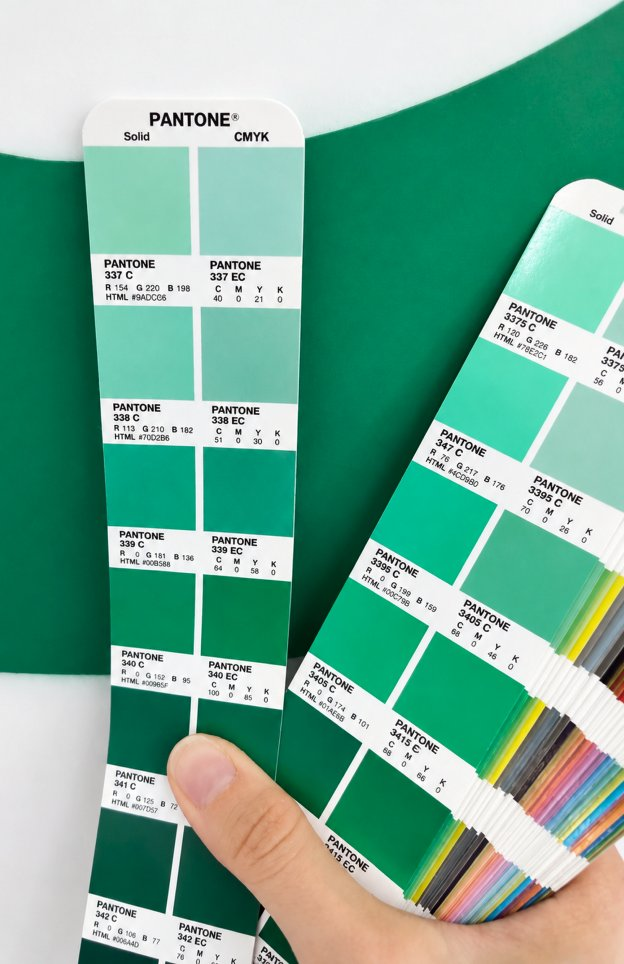
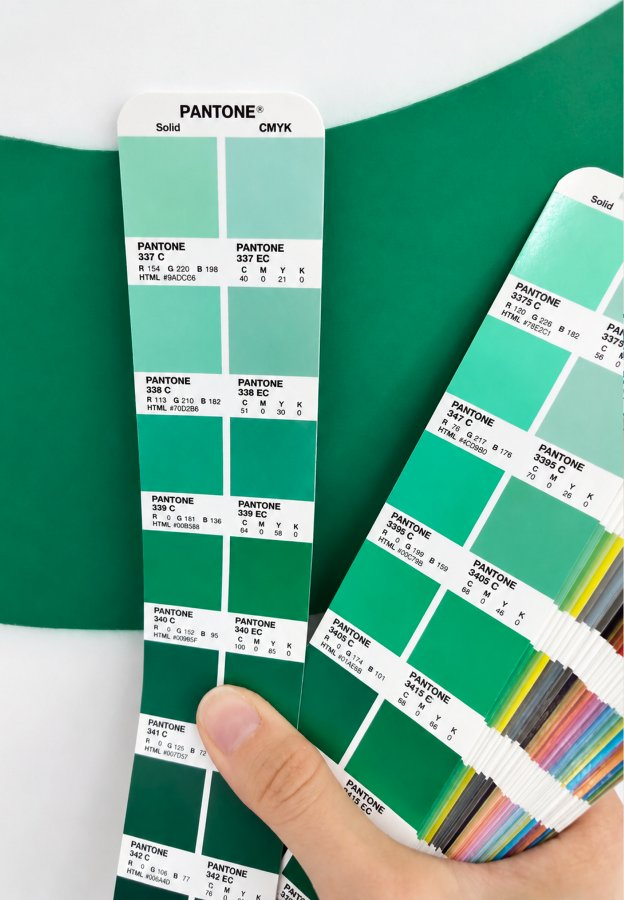
Заголовок программы по краю колонки, отступы и бирка по макету
«Программа» сдвинута на 5 влево — так её «П» встаёт на левый край
колонки, вровень с разделителем и «Спринтом I». Внутри программы
поджаты отступы: между группами 20 вместо 24, внутри группы 4 вместо 6.
Бирка «Бесплатно» переехала в конец заголовка.

Фотографии перевыгружены под новые высоты (450, 589, 230). Программа
похудела до 1680, всё ниже уехало вверх на 84,5: полотно 6872,
подвал 6928, страница 6979.

diff --git a/site/style.css b/site/style.css
@@ -80,7 +80,7 @@ html, body {
   position: relative;
   width: 1050px;
   margin: 0 auto;
-  min-height: 7063.5px;
+  min-height: 6979px;
   padding-top: 24px;
   zoom: var(--zoom, 1.1429);
 }
@@ -99,7 +99,7 @@ img {
 .sheet {
   position: relative;
   width: 1050px;
-  height: 6956.5px;
+  height: 6872px;
   margin: 0;
   background: #fff;
   border-radius: 4px;
@@ -402,12 +402,15 @@ img {
 .intro-rest p + p { margin-top: 8px; }
 
 /* ===== Программа ===== */
-.program { top: 1088px; left: 32px; width: 986px; height: 1764.5px; }
-.program .h2 { margin-bottom: 40px; }
+.program { top: 1088px; left: 32px; width: 986px; height: 1680px; }
+/* Заголовок сдвинут на 5 влево: так автор выровняла его `П` по левому краю
+   колонки — у серифа своя боковая полуапрошь, и без поправки заголовок
+   казался отодвинутым от разделителя под ним (узел 2319:15658, x = −5). */
+.program .h2 { margin: 0 0 40px -5px; }
 .sprint { position: absolute; left: 0; width: 986px; }
 .sprint:nth-of-type(1) { top: 103px; }
-.sprint:nth-of-type(2) { top: 703px; }
-.sprint:nth-of-type(3) { top: 1446.5px; }
+.sprint:nth-of-type(2) { top: 671px; }
+.sprint:nth-of-type(3) { top: 1378px; }
 .sprint .h3 {
   margin-top: 12px;
   padding-bottom: 32px;
@@ -430,14 +433,14 @@ img {
   justify-content: space-between;
   align-items: flex-start;
 }
-.sprint-col { width: 312px; display: flex; flex-direction: column; gap: 24px; }
+.sprint-col { width: 312px; display: flex; flex-direction: column; gap: 20px; }
 /* В третьем спринте текстовые колонки сгруппированы и стоят в 20 друг от друга */
 .sprint-pair { display: flex; gap: 20px; }
 .sprint-pic { width: 312px; }
-.sprint-pic-1 { height: 482px; }
-.sprint-pic-2 { height: 624px; }
-.sprint-pic-3 { height: 245px; }
-.grp { display: flex; flex-direction: column; gap: 6px; }
+.sprint-pic-1 { height: 450px; }
+.sprint-pic-2 { height: 589px; }
+.sprint-pic-3 { height: 230px; }
+.grp { display: flex; flex-direction: column; gap: 4px; }
 /* .grp p бьёт .grp-t по специфичности (0,1,1 против 0,1,0), поэтому заголовок
    группы задаём селектором из двух классов — иначе он теряет Semibold и
    выглядит так же, как пункты внутри. Опорный класс тут .sprint-col, а не .grp:
@@ -477,10 +480,10 @@ img {
 /* Бирка в строке заголовка задаёт высоту этой строки: 26 своих плюс
    поля. Отрицательная отбивка −1 как раз даёт макетные 44,5 на двух
    строках (без неё 46,7) — замерено по живому заголовку. */
-.sprint-col .grp-t .tag { margin: -1px 5px -1px 0; vertical-align: middle; }
+.sprint-col .grp-t .tag { margin: -1px 0 -1px 5px; vertical-align: middle; }
 
 /* ===== Что внутри ===== */
-.inside { top: 2942.5px; left: 32px; width: 986px; height: 878px; }
+.inside { top: 2858px; left: 32px; width: 986px; height: 878px; }
 .inside .h2 { margin-bottom: 24px; }
 .inside-lead {
   width: 574px;
@@ -505,7 +508,7 @@ img {
    текста на белом, 456 и 477 в колонке 986, зазор 53.
    Стиль «soft&availability» из макета: Graphik Regular 32, интерлиньяж 1.02.
    Строки в Фигме разложены по 33px с зазором 5, поэтому тут шаг 38. */
-.practice { top: 3880.5px; left: 32px; width: 986px; height: 147px; }
+.practice { top: 3796px; left: 32px; width: 986px; height: 147px; }
 .inside-notes {
   position: absolute;
     /* Фигма стопит строки боксами по 32,64 с зазором 5,36, а у нас шаг задан
@@ -542,7 +545,7 @@ img {
 }
 
 /* ===== Авторы ===== */
-.authors { top: 4117.5px; left: 32px; width: 986px; height: 527px; }
+.authors { top: 4033px; left: 32px; width: 986px; height: 527px; }
 .authors .h2 { margin-bottom: 40px; }
 .authors-row { display: flex; gap: 44px; }
 .author { width: 292px; }
@@ -647,7 +650,7 @@ img {
    и после правок макета фото перестало совпадать с рамкой. Прозрачность
    не нужна, потому что полотно под карточкой белое. У мобильного своя
    картинка — она уже, выше и телефон в ней стоит иначе; выбирает `<picture>`. */
-.tg { top: 4734.5px; left: 32px; width: 986px; height: 440px; background: #fff; }
+.tg { top: 4650px; left: 32px; width: 986px; height: 440px; background: #fff; }
 /* обёртка picture ничего не рисует, но инлайновый бокс добавил бы строку —
    делаем её блочной, а картинка внутри всё равно позиционирована */
 .tg picture { display: block; }
@@ -670,7 +673,7 @@ img {
 .tg .btn { position: absolute; left: 32px; top: 324px; }
 
 /* ===== Вопросы ===== */
-.faq { top: 5264.5px; left: 32px; width: 986px; height: 640px; }
+.faq { top: 5180px; left: 32px; width: 986px; height: 640px; }
 .faq .h2 { margin-bottom: 40px; }
 .faq-item { margin-bottom: 32px; }
 .faq-item .h3 { margin-bottom: 8px; }
@@ -691,7 +694,7 @@ img {
    зашитыми в саму картинку, и жёлтой кнопкой. Под ней таймлайн.
    `top` секции — это верх плашки: бокс `1850:2979` в Фигме стоит на 18 ниже,
    потому что внутри него плашка сдвинута на −18. */
-.buy { top: 5994.5px; left: 32px; width: 986px; height: 560px; }
+.buy { top: 5910px; left: 32px; width: 986px; height: 560px; }
 .buy-card { position: relative; width: 986px; height: 406px; color: #fff; }
 .buy-bg {
   width: 986px; height: 406px;
@@ -770,7 +773,7 @@ img {
 .when-date + .when-what { margin-top: 6px; }
 
 /* ===== Если пока не определились ===== */
-.undecided { top: 6644.5px; left: 32px; width: 986px; height: 204px; }
+.undecided { top: 6560px; left: 32px; width: 986px; height: 204px; }
 .undecided .h2 { margin-bottom: 24px; }
 .undecided p {
   width: 571px;
@@ -784,7 +787,7 @@ img {
    + 32, и забыть эти 24 легко: один раз так и вышло, зазор стал 8 вместо 32. */
 .site-footer {
   position: absolute;
-  left: 0; top: 7012.5px;
+  left: 0; top: 6928px;
   width: 1050px;
   display: flex; align-items: center; justify-content: space-between;
   font: 400 15px/1.25 'Graphik', sans-serif;
@@ -954,7 +957,8 @@ img {
 
   /* ===== Программа ===== */
   .program { margin-top: 80px !important; }
-  .program .h2 { margin-bottom: 40px; }
+  /* на мобильном заголовок стоит по краю колонки, сдвиг −5 не нужен */
+  .program .h2 { margin: 0 0 40px; }
   .sprint { position: static; width: auto; margin-bottom: 60px; }
   .sprint:last-child { margin-bottom: 0; }
   .sprint::before { width: 100%; }
@@ -963,9 +967,9 @@ img {
   /* фотография тянется во всю колонку, пропорции держит aspect-ratio;
      до неё в макете 40, то есть 20 от флексового зазора плюс 20 тут */
   .sprint-pic { width: 100%; height: auto; margin-top: 20px; }
-  .sprint-pic-1 { aspect-ratio: 312 / 482; }
-  .sprint-pic-2 { aspect-ratio: 312 / 624; }
-  .sprint-pic-3 { aspect-ratio: 312 / 245; }
+  .sprint-pic-1 { aspect-ratio: 312 / 450; }
+  .sprint-pic-2 { aspect-ratio: 312 / 589; }
+  .sprint-pic-3 { aspect-ratio: 312 / 230; }
 
   /* ===== Что внутри ===== */
   .inside { margin-top: 80px !important; }

diff --git a/site/index.html b/site/index.html
@@ -28,7 +28,7 @@
   <link rel="icon" href="favicon.png" sizes="32x32" type="image/png">
   <link rel="apple-touch-icon" href="apple-touch-icon.png">
 
-  <link rel="stylesheet" href="style.css?v=124">
+  <link rel="stylesheet" href="style.css?v=125">
 </head>
 <body>
   <!-- Yandex.Metrika counter -->
@@ -131,7 +131,7 @@
                 <p>Узнайте, нужна&nbsp;ли раскладка</p>
               </div>
             </div>
-            <img class="sprint-pic sprint-pic-1" src="assets/prog-1.jpg" alt="Веера пантонных образцов" width="312" height="467">
+            <img class="sprint-pic sprint-pic-1" src="assets/prog-1.jpg" alt="Веера пантонных образцов" width="312" height="450">
           </div>
         </div>
 
@@ -142,7 +142,7 @@
               <div class="grp">
                 <!-- бирка стоит в строке заголовка: заголовок обтекает её,
                      поэтому она инлайновая, а не отдельным блоком -->
-                <p class="grp-t"><span class="tag tag-free">Бесплатно</span>Цветовые <br class="wide-only">модели и&nbsp;профили</p>
+                <p class="grp-t">Цветовые модели <br class="wide-only">и&nbsp;профили<span class="tag tag-free">Бесплатно</span></p>
                 <p>Цветовая модель RGB</p>
                 <p>Цветовая модель CMYK</p>
                 <p>Проблема автоперевода из&nbsp;RGB в&nbsp;CMYK</p>
@@ -190,7 +190,7 @@
                 <p>Правки в&nbsp;последний час</p>
               </div>
             </div>
-            <img class="sprint-pic sprint-pic-2" src="assets/prog-2.jpg" alt="Наклейки и визитки на ноутбуке с макетом" width="312" height="573">
+            <img class="sprint-pic sprint-pic-2" src="assets/prog-2.jpg" alt="Наклейки и визитки на ноутбуке с макетом" width="312" height="589">
           </div>
         </div>
 
@@ -222,7 +222,7 @@
                 <p class="grp-t">Как принять тираж</p>
               </div>
             </div>
-            <img class="sprint-pic sprint-pic-3" src="assets/prog-3.jpg" alt="Паллета с отпечатанным тиражом коробок" width="312" height="245">
+            <img class="sprint-pic sprint-pic-3" src="assets/prog-3.jpg" alt="Паллета с отпечатанным тиражом коробок" width="312" height="230">
           </div>
         </div>
       </section>

diff --git a/CLAUDE.md b/CLAUDE.md
@@ -40,15 +40,15 @@
 |---|---|---|---|
 | Хиро | `.hero` | −40 | 1039 |
 | Вступление с буквицей | `.intro` | 707 | 291 |
-| Программа | `.program` | 1088 | 1764.5 |
-| Что внутри | `.inside` | 2942.5 | 878 |
-| Для практики понадобятся | `.practice` | 3880.5 | 147 |
-| Авторы | `.authors` | 4117.5 | 527 |
-| Телеграм-канал | `.tg` | 4734.5 | 440 |
-| Вопросы | `.faq` | 5264.5 | 640 |
-| Плашка с ценой и таймлайн | `.buy` | 5994.5 | 560 |
-| Если пока не определились | `.undecided` | 6644.5 | 204 |
-| Подвал | `.site-footer` | 7012.5 (от `#page`) | 19 |
+| Программа | `.program` | 1088 | 1680 |
+| Что внутри | `.inside` | 2858 | 878 |
+| Для практики понадобятся | `.practice` | 3796 | 147 |
+| Авторы | `.authors` | 4033 | 527 |
+| Телеграм-канал | `.tg` | 4650 | 440 |
+| Вопросы | `.faq` | 5180 | 640 |
+| Плашка с ценой и таймлайн | `.buy` | 5910 | 560 |
+| Если пока не определились | `.undecided` | 6560 | 204 |
+| Подвал | `.site-footer` | 6928 (от `#page`) | 19 |
 
 **Всё ниже программы держится на её высоте.** В `2087:1890` автор переписала уроки,
 и программа выросла с 1525 до 1835 — остальные секции просто уехали на 310 вниз,
@@ -58,7 +58,7 @@
 **Все координаты на 40px выше макетных** — так попросил автор, чтобы контент сидел выше
 в полотне. Поэтому хиро и уехал в минус. Сверяешься с Фигмой — держи эту поправку в уме:
 к числам из макета надо прибавить 40. Проверка, что поправка всё ещё та самая: низ
-контента в макете 6888,5 (в системе полотна), у нас 6848,5.
+контента в макете 6804 (в системе полотна), у нас 6764.
 
 **Нижнее поле полотна считаем сами, по макету его не сверить.** У нас это 108 — столько
 было в `2047:1208` и столько автор приняла. В `2087:1890` белый прямоугольник остался
@@ -77,7 +77,7 @@
 90, 108, 72, 90), потом автор его выровняла. Проверять удобнее не по боксам, а по краске:
 скрипт ищет сплошные пустые полосы в полотне и печатает отступ перед каждым блоком;
 на макете и на сайте списки должны совпадать. Замер, который должен получаться
-(окно ровно 1050, зум 1, полоса 34..1018): 64, 94, 44, 47, 94, 62, 96, 92, 95, 93, 98.
+(окно ровно 1050, зум 1, полоса 34..1018): 64, 94, 44, 45, 93, 62, 96, 91, 95, 92, 97.
 Девяностые — это и есть отбивки между секциями, а 44 и 47 внутри программы — спринты
 (боксы у них в 46 друг от друга).
 
@@ -85,8 +85,8 @@
 которую тут раньше была оговорка, нет уже и в макете — автор убрала её у себя,
 так что пересчитывать ничего не нужно.
 
-Полотно 6956,5 высотой, то есть кончается на 6980,5 от верха страницы; подвал начинается
-на 7012,5 — между ними 32px фона. Высота страницы 7063,5. Низ контента (6848,5) плюс
+Полотно 6872 высотой, то есть кончается на 6896 от верха страницы; подвал начинается
+на 6928 — между ними 32px фона. Высота страницы 6979. Низ контента (6764) плюс
 нижнее поле 108 и даёт высоту полотна. Дробные половинки приехали из макета: там
 у группы с биркой «Бесплатно» высота 44,5.
 
@@ -746,15 +746,20 @@ Cambria и буквица стояла на нуле; теперь там тот
 
 ## Программа
 
+**Заголовок «Программа» сдвинут на 5 влево** (`margin-left: -5px`): так автор выровняла
+его «П» по левому краю колонки — у серифа своя боковая полуапрошь, и без поправки
+заголовок казался отодвинутым от разделителя под ним. В макете это узел `2319:15658`
+с `x = −5`. На мобильном сдвига нет, там заголовок стоит по краю колонки.
+
 Три спринта, у каждого — разделитель, заголовок H3 и три колонки. **Третья колонка
 в каждом спринте теперь фотография**, а не текст: автор перенесла туда снимки
 из отдельного блока с галереей, а саму галерею попросила убрать.
 
 | Спринт | top | Высота | Фото |
 |---|---|---|---|
-| I. Задача | 103 | 554 | `prog-1.jpg`, 312×482 |
-| II. Во время проекта | 703 | 697,5 | `prog-2.jpg`, 312×624 |
-| III. После проекта | 1446,5 | 318 | `prog-3.jpg`, 312×245 |
+| I. Задача | 103 | 522 | `prog-1.jpg`, 312×450 |
+| II. Во время проекта | 671 | 661 | `prog-2.jpg`, 312×589 |
+| III. После проекта | 1378 | 302 | `prog-3.jpg`, 312×230 |
 
 Фото 2× (624 по ширине), узлы `2087:1951`, `2087:1998`, `2267:2074`. Третье больше
 не эллипс: автор заменила снимок на прямоугольный (паллета с тиражом), так что ни маски,
@@ -780,9 +785,10 @@ Cambria и буквица стояла на нуле; теперь там тот
   `.sprint .h3` для этого сделан флексом с `align-items: flex-end` и зазором 8.
   На мобильном заголовок переносится на две строки, а бирка уезжает к правому краю —
   так получается само собой, в мобильном макете этого случая нет;
-- **у заголовка группы** («Бесплатно» у «Цветовых моделей») — инлайновая, заголовок
-  её обтекает и переносится на вторую строку. Поэтому тут не флекс, а `vertical-align:
-  middle` и отбивка справа 5. **Отрицательные поля −1 сверху и снизу обязательны**:
+- **у заголовка группы** («Бесплатно» у «Цветовых моделей») — инлайновая и стоит
+  **в конце заголовка**, после «и профили» (раньше была в начале). Поэтому тут не флекс,
+  а `vertical-align: middle` и отбивка слева 5; пробела перед ней в разметке нет,
+  иначе зазор сложился бы вдвое. **Отрицательные поля −1 сверху и снизу обязательны**:
   бирка задаёт высоту своей строки, и без них заголовок выходит 46,7 вместо макетных
   44,5 — замерено по живому заголовку, перебором вариантов.
 
@@ -800,9 +806,10 @@ Cambria и буквица стояла на нуле; теперь там тот
 картинка уедет от правого края. **Отбивки `padding-left: 4` у ряда больше нет**:
 в прежнем фрейме колонки стояли на 4, 339, 674, в `2087:1890` — от самого края.
 
-**Между группами в колонке 24, внутри группы 6.** Значение уже гуляло: 20 → 16 → 20 → 24.
-Сверяйся с макетом, а не с памятью — как и с кеглями: пункты 16, заголовки групп 19
-(были 18), интерлиньяж у обоих 1.2.
+**Между группами в колонке 20, внутри группы 4.** Значения гуляют от правки к правке
+(между группами было 20 → 16 → 20 → 24 → 20, внутри 6 → 4), поэтому сверяйся
+с макетом, а не с памятью — как и с кеглями: пункты 16, заголовки групп 19,
+интерлиньяж у обоих 1.2.
 
 **В третьем спринте текстовые колонки сгруппированы** в `.sprint-pair` с зазором 20:
 `space-between` разводит уже эту пару и фотографию, иначе между двумя текстовыми
